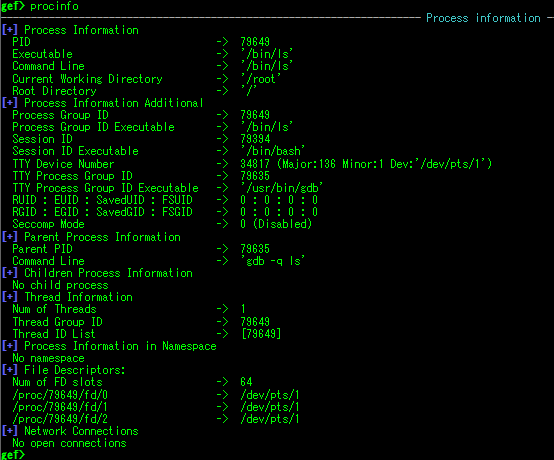
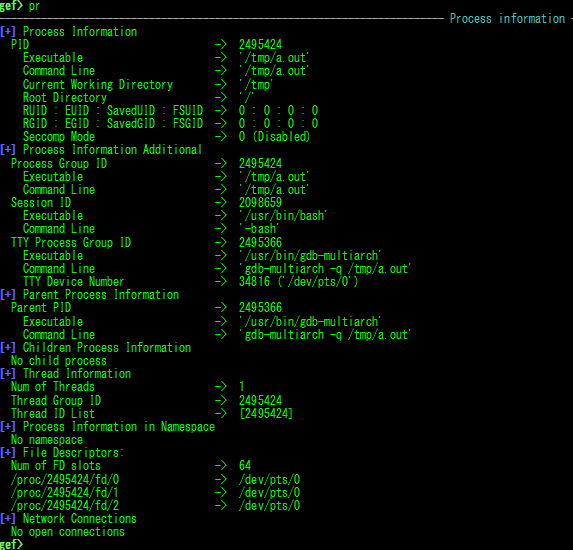
fix process-status

diff --git a/gef.py b/gef.py
@@ -6802,9 +6802,9 @@ class ProcessStatusCommand(GenericCommand):
         self.dont_repeat()
         gef_print(titlify("Process information"))
         self.show_info_proc()
-        self.show_info_proc2()
-        self.show_ancestor()
-        self.show_descendants()
+        self.show_info_proc_extra()
+        self.show_parent()
+        self.show_childs()
         self.show_info_thread()
         self.show_info_proc_ns()
         self.show_fds()
@@ -6942,74 +6942,88 @@ class ProcessStatusCommand(GenericCommand):
     def show_info_proc(self):
         info("Process Information")
         pid = get_pid()
+        executable = self.get_process_path_of(pid)
         cmdline = self.get_cmdline_of(pid)
+        cwd = self.get_process_cwd(pid)
+        root = self.get_process_root(pid)
         gef_print("  {:32s} {} {}".format("PID", RIGHT_ARROW, pid))
-        gef_print("  {:32s} {} {}".format("Executable", RIGHT_ARROW, repr(self.get_process_path_of(pid))))
-        gef_print("  {:32s} {} {}".format("Command Line", RIGHT_ARROW, repr(cmdline)))
-        gef_print("  {:32s} {} {}".format("Current Working Directory", RIGHT_ARROW, repr(self.get_process_cwd(pid))))
-        gef_print("  {:32s} {} {}".format("Root Directory", RIGHT_ARROW, repr(self.get_process_root(pid))))
+        gef_print("  {:32s} {} {}".format("  Executable", RIGHT_ARROW, repr(executable)))
+        gef_print("  {:32s} {} {}".format("  Command Line", RIGHT_ARROW, repr(cmdline)))
+        gef_print("  {:32s} {} {}".format("  Current Working Directory", RIGHT_ARROW, repr(cwd)))
+        gef_print("  {:32s} {} {}".format("  Root Directory", RIGHT_ARROW, repr(root)))
+        uids = re.sub(r"\s+", " : ", self.get_state_of(pid)['Uid'])
+        gids = re.sub(r"\s+", " : ", self.get_state_of(pid)['Gid'])
+        gef_print("  {:32s} {} {}".format("  RUID : EUID : SavedUID : FSUID", RIGHT_ARROW, uids))
+        gef_print("  {:32s} {} {}".format("  RGID : EGID : SavedGID : FSGID", RIGHT_ARROW, gids))
+        seccomp_n = self.get_state_of(pid)['Seccomp']
+        seccomp_s = {'0': 'Disabled', '1': 'Strict', '2': 'Filter'}[seccomp_n]
+        gef_print("  {:32s} {} {} ({})".format("  Seccomp Mode", RIGHT_ARROW, seccomp_n, seccomp_s))
         return
 
-    def show_info_proc2(self):
+    def show_info_proc_extra(self):
         info("Process Information Additional")
         pid = get_pid()
         pgid = self.get_stat_of(pid)[4]
+        pgid_exec = self.get_process_path_of(pgid)
+        pgid_cmdline = self.get_cmdline_of(pgid)
         gef_print("  {:32s} {} {}".format("Process Group ID", RIGHT_ARROW, pgid))
-        gef_print("  {:32s} {} {}".format("Process Group ID Executable", RIGHT_ARROW, repr(self.get_process_path_of(pgid))))
+        gef_print("  {:32s} {} {}".format("  Executable", RIGHT_ARROW, repr(pgid_exec)))
+        gef_print("  {:32s} {} {}".format("  Command Line", RIGHT_ARROW, repr(pgid_cmdline)))
         sid = self.get_stat_of(pid)[5]
+        sid_exec = self.get_process_path_of(sid)
+        sid_cmdline = self.get_cmdline_of(sid)
         gef_print("  {:32s} {} {}".format("Session ID", RIGHT_ARROW, sid))
-        gef_print("  {:32s} {} {}".format("Session ID Executable", RIGHT_ARROW, repr(self.get_process_path_of(sid))))
+        gef_print("  {:32s} {} {}".format("  Executable", RIGHT_ARROW, repr(sid_exec)))
+        gef_print("  {:32s} {} {}".format("  Command Line", RIGHT_ARROW, repr(sid_cmdline)))
+        tpgid = self.get_stat_of(pid)[7]
+        tpgid_exec = self.get_process_path_of(tpgid)
+        tpgid_cmdline = self.get_cmdline_of(tpgid)
+        gef_print("  {:32s} {} {}".format("TTY Process Group ID", RIGHT_ARROW, tpgid))
+        gef_print("  {:32s} {} {}".format("  Executable", RIGHT_ARROW, repr(tpgid_exec)))
+        gef_print("  {:32s} {} {}".format("  Command Line", RIGHT_ARROW, repr(tpgid_cmdline)))
         ttynr = self.get_stat_of(pid)[6]
         major, minor = (ttynr >> 8) & 0xff, ((ttynr >> 20) << 8) | (ttynr & 0xff)
         ttystr = self.get_tty_str(major, minor)
-        gef_print("  {:32s} {} {} (Major:{} Minor:{} Dev:{})".format("TTY Device Number", RIGHT_ARROW, ttynr, major, minor, repr(ttystr)))
-        tpgid = self.get_stat_of(pid)[7]
-        gef_print("  {:32s} {} {}".format("TTY Process Group ID", RIGHT_ARROW, tpgid))
-        gef_print("  {:32s} {} {}".format("TTY Process Group ID Executable", RIGHT_ARROW, repr(self.get_process_path_of(tpgid))))
-        gef_print("  {:32s} {} {}".format("RUID : EUID : SavedUID : FSUID", RIGHT_ARROW, re.sub(r"\s+", " : ", self.get_state_of(pid)['Uid'])))
-        gef_print("  {:32s} {} {}".format("RGID : EGID : SavedGID : FSGID", RIGHT_ARROW, re.sub(r"\s+", " : ", self.get_state_of(pid)['Gid'])))
-        seccomp_n = self.get_state_of(pid)['Seccomp']
-        seccomp_s = {'0': 'Disabled', '1': 'Strict', '2': 'Filter'}
-        gef_print("  {:32s} {} {} ({})".format("Seccomp Mode", RIGHT_ARROW, seccomp_n, seccomp_s[seccomp_n]))
+        gef_print("  {:32s} {} {} ({})".format("  TTY Device Number", RIGHT_ARROW, ttynr, repr(ttystr)))
         return
 
-    def show_ancestor(self):
+    def show_parent(self):
         info("Parent Process Information")
         ppid = int(self.get_state_of(get_pid())["PPid"])
-        state = self.get_state_of(ppid)
-        cmdline = self.get_cmdline_of(ppid)
-        gef_print("  {:32s} {} {}".format("Parent PID", RIGHT_ARROW, state["Pid"]))
-        gef_print("  {:32s} {} {}".format("Command Line", RIGHT_ARROW, repr(cmdline)))
+        ppid_exec = self.get_process_path_of(ppid)
+        ppid_cmdline = self.get_cmdline_of(ppid)
+        gef_print("  {:32s} {} {}".format("Parent PID", RIGHT_ARROW, ppid))
+        gef_print("  {:32s} {} {}".format("  Executable", RIGHT_ARROW, repr(ppid_exec)))
+        gef_print("  {:32s} {} {}".format("  Command Line", RIGHT_ARROW, repr(ppid_cmdline)))
         return
 
-    def show_descendants(self):
+    def show_childs(self):
         info("Children Process Information")
         children = self.get_children_pids(get_pid())
         if not children:
             gef_print("  No child process")
             return
 
-        for child_pid in children:
-            state = self.get_state_of(child_pid)
-            pid = state["Pid"]
-            pid_path = self.get_process_path_of(pid)
-            pid_cmdline = self.get_cmdline_of(pid)
-            gef_print("  {:32s} {} {} (Name: '{}', CmdLine: '{}')".format("PID", RIGHT_ARROW, pid, pid_path, pid_cmdline))
+        for i, cpid in enumerate(children, start=1):
+            cpid_exec = self.get_process_path_of(cpid)
+            cpid_cmdline = self.get_cmdline_of(cpid)
+            gef_print("  {:32s} {} {}".format("Child {} PID".format(i), RIGHT_ARROW, cpid))
+            gef_print("  {:32s} {} {}".format("  Executable", RIGHT_ARROW, repr(cpid_exec)))
+            gef_print("  {:32s} {} {}".format("  Command Line", RIGHT_ARROW, repr(cpid_cmdline)))
         return
 
     def show_info_thread(self):
         info("Thread Information")
         pid = get_pid()
-        gef_print("  {:32s} {} {}".format("Num of Threads", RIGHT_ARROW, self.get_state_of(pid)['Threads']))
-        gef_print("  {:32s} {} {}".format("Thread Group ID", RIGHT_ARROW, self.get_state_of(pid)['Tgid']))
+        nthreads = self.get_state_of(pid)['Threads']
+        tgid = self.get_state_of(pid)['Tgid']
+        gef_print("  {:32s} {} {}".format("Num of Threads", RIGHT_ARROW, nthreads))
+        gef_print("  {:32s} {} {}".format("Thread Group ID", RIGHT_ARROW, tgid))
         tids = self.get_thread_ids(pid)
         split = 8
-        if len(tids) <= split:
-            gef_print("  {:32s} {} {}".format("Thread ID List", RIGHT_ARROW, tids))
-        else:
-            gef_print("  {:32s} {} {}".format("Thread ID List", RIGHT_ARROW, tids[:split]))
-            for i in range(split, len(tids), split):
-                gef_print("  {:32s} {} {}".format("", RIGHT_ARROW, tids[i:i + split]))
+        gef_print("  {:32s} {} {}".format("Thread ID List", RIGHT_ARROW, tids[:split]))
+        for i in range(split, len(tids), split):
+            gef_print("  {:32s} {} {}".format("", RIGHT_ARROW, tids[i:i + split]))
         return
 
     def show_info_proc_ns(self):
